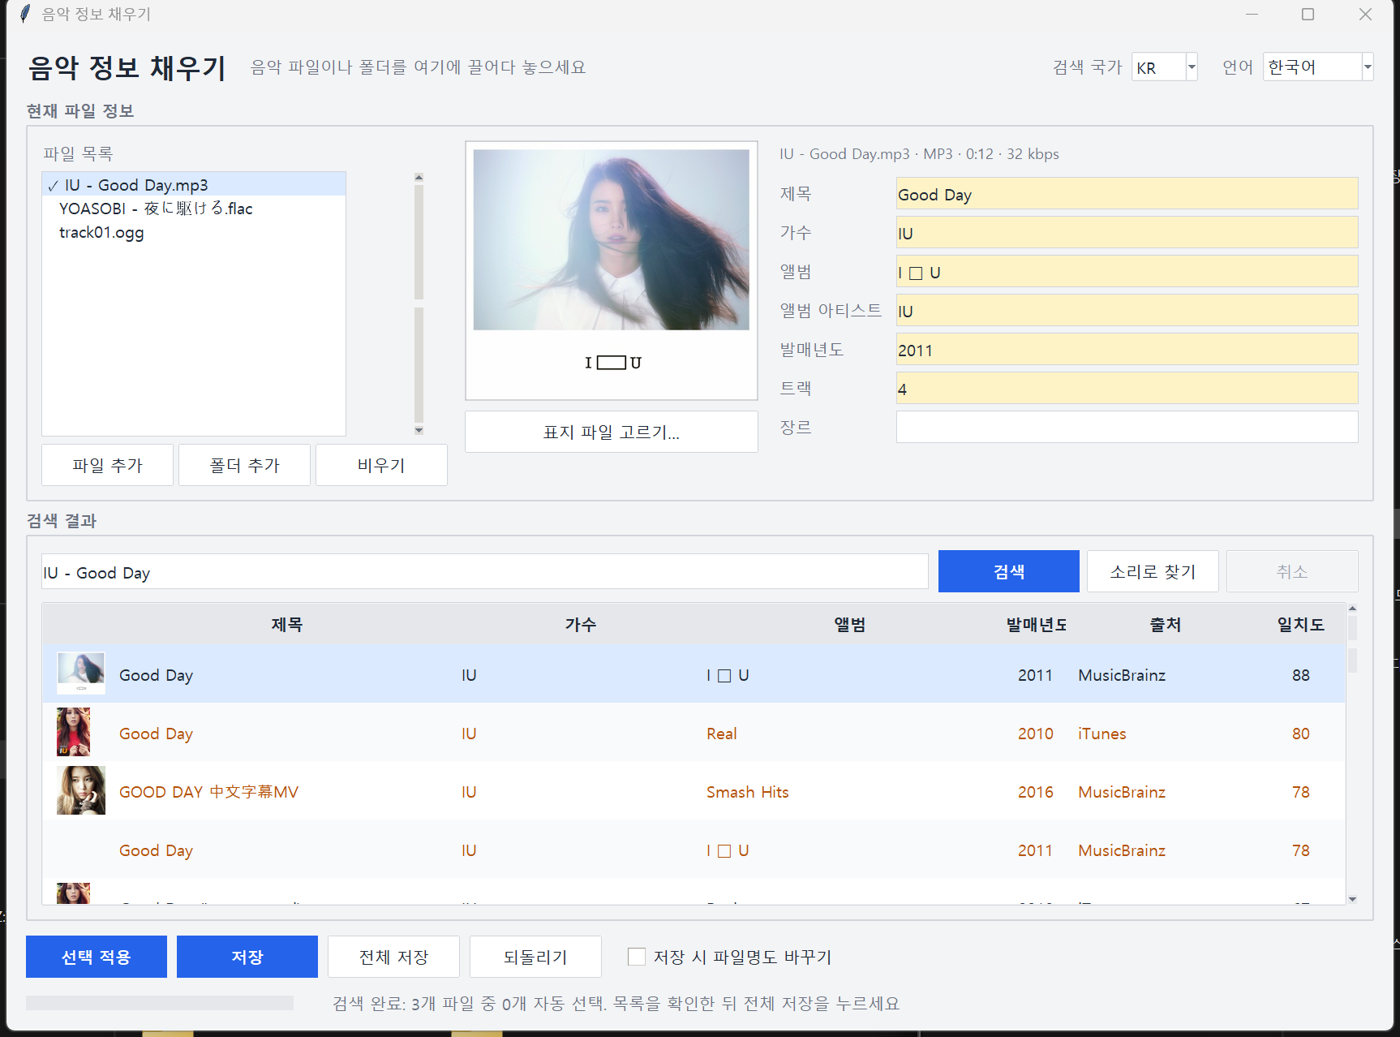
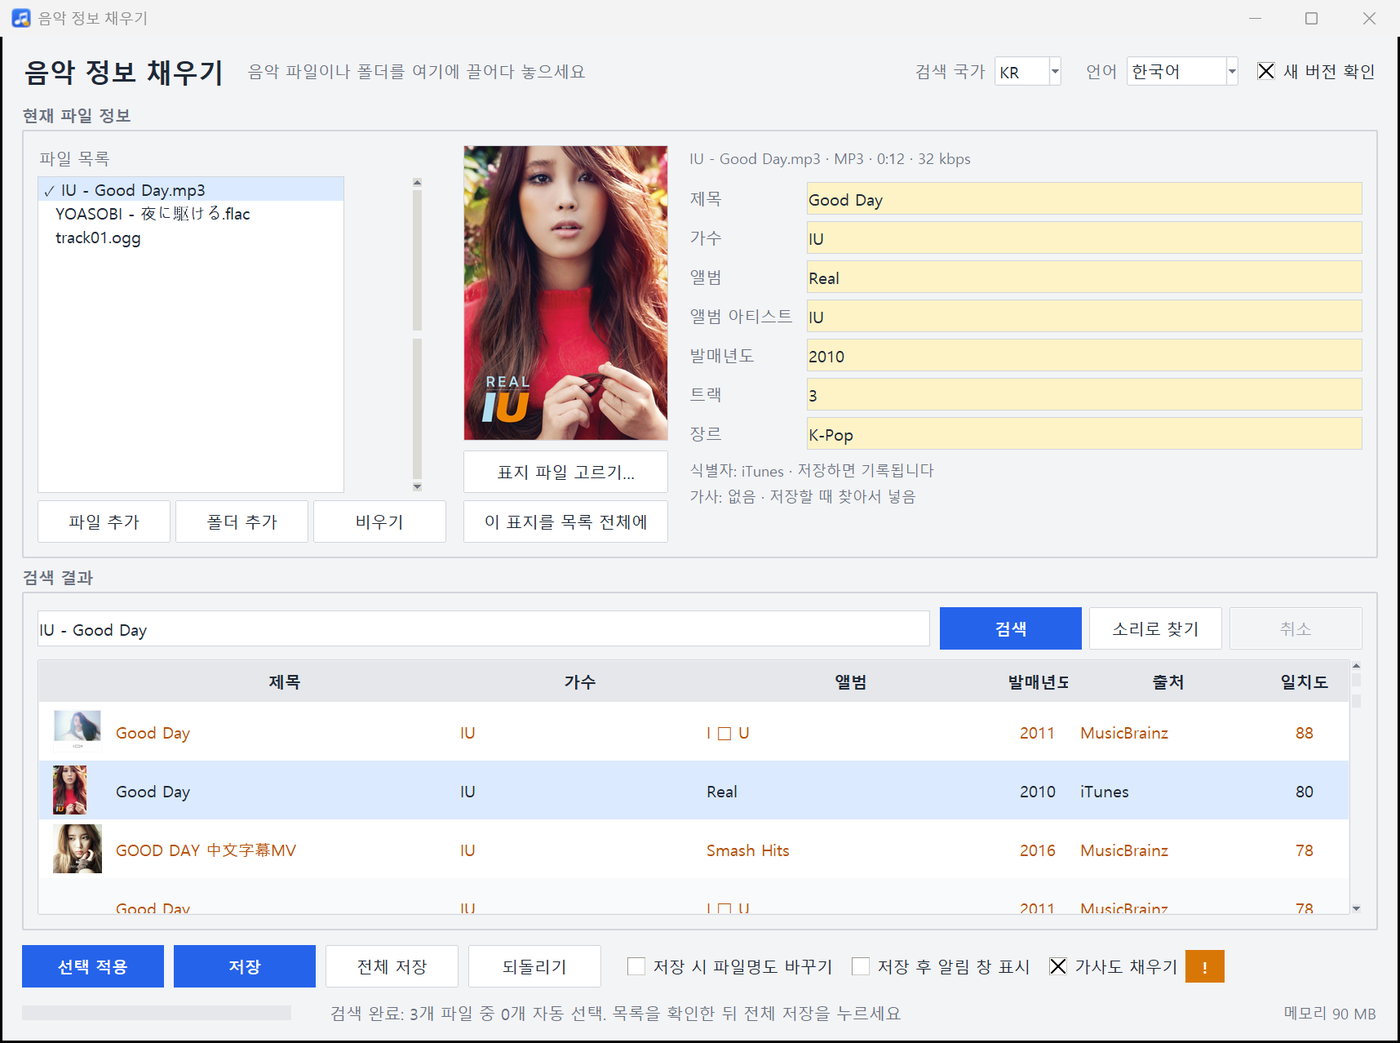
v0.2.2: 새 버전 확인 중 창을 닫아도 안전하게(작업 스레드는 Tk를 잡지 않음), 알림 문구, README 화면

diff --git a/tests/test_update_check.py b/tests/test_update_check.py
@@ -37,11 +37,11 @@ class FakeRoot:
 @pytest.fixture(autouse=True)
 def inline_threads(monkeypatch):
     class InlineThread:
-        def __init__(self, target, name=None, daemon=None):
-            self.target = target
+        def __init__(self, target, args=(), name=None, daemon=None):
+            self.target, self.args = target, args
 
         def start(self):
-            self.target()
+            self.target(*self.args)
 
     monkeypatch.setattr(uc.threading, "Thread", InlineThread)
 
@@ -180,6 +180,66 @@ def test_only_pages_of_the_tools_site_are_opened(url):
 @pytest.mark.parametrize("latest", ["", "   ", None, 3, "x" * 40])
 def test_odd_versions_show_nothing(latest):
     assert uc.interpret(dict(OK, latest=latest), "0.2.1") is None
+
+
+# ------------------------------------------------------------------ the worker thread never holds Tk
+def test_worker_thread_gets_no_tk_object_or_callback(monkeypatch):
+    """Closing the window while the request waits must not leave the worker holding the last
+    reference to the App or a Tk variable (Tcl_AsyncDelete crash in a sibling tool)."""
+    seen = {}
+
+    class Recorder:
+        def __init__(self, target, args=(), name=None, daemon=None):
+            seen.update(target=target, args=args, daemon=daemon)
+
+        def start(self):
+            seen["target"](*seen["args"])
+
+    monkeypatch.setattr(uc.threading, "Thread", Recorder)
+    root = FakeRoot()
+    results = []
+    on_result = results.append
+
+    def fetcher(slug, version):
+        return OK
+
+    uc.check_async(root, "musictag", "0.2.1", prefs_mod.Prefs(), lambda info, answered: on_result(info),
+                   fetcher=fetcher, day=DAY)
+    assert seen["target"] is uc._work and seen["target"].__closure__ is None  # a module function: holds nothing
+    assert seen["daemon"] is True
+    for arg in seen["args"]:
+        assert arg is not root and arg is not on_result
+        assert not hasattr(arg, "after") and not hasattr(arg, "tk")
+    assert [type(a) for a in seen["args"]] == [dict, type(fetcher), str, str, str]
+    assert len(results) == 1  # the Tk side still got the answer, through polling
+
+
+def test_tk_side_stops_polling_after_the_timeout(monkeypatch):
+    clock = [0.0]
+    monkeypatch.setattr(uc.time, "monotonic", lambda: clock[0])
+
+    class NeverStarts:
+        def __init__(self, target, args=(), name=None, daemon=None):
+            pass
+
+        def start(self):
+            pass  # the request never answers
+
+    monkeypatch.setattr(uc.threading, "Thread", NeverStarts)
+
+    class SteppingRoot:
+        calls = 0
+
+        def after(self, ms, fn):
+            SteppingRoot.calls += 1
+            clock[0] += ms / 1000 if ms != uc.DELAY_MS else 0
+            if SteppingRoot.calls < 1000:
+                fn()
+
+    results = []
+    uc.check_async(SteppingRoot(), "musictag", "0.2.1", prefs_mod.Prefs(), lambda *a: results.append(a),
+                   fetcher=lambda s, v: OK, day=DAY)
+    assert results == [] and SteppingRoot.calls < 1000  # gave up after TIMEOUT + POLL_GRACE
 
 
 # ------------------------------------------------------------------ settings

diff --git a/update_check.py b/update_check.py
@@ -12,6 +12,7 @@ import dataclasses
 import datetime
 import json
 import threading
+import time
 import urllib.parse
 import urllib.request
 from typing import Callable
@@ -21,6 +22,8 @@ SITE = "https://chaekgalpi.co.kr/"  # the notice only ever opens a page on this 
 TIMEOUT = 4.0
 DELAY_MS = 1500
 MAX_BYTES = 64 * 1024
+POLL_MS = 100  # the Tk thread looks for the worker's result this often
+POLL_GRACE = 6.0  # beyond the request timeout before the Tk thread stops looking
 
 
 @dataclasses.dataclass
@@ -71,25 +74,47 @@ def interpret(data: dict | None, version: str, skipped: str = "") -> UpdateInfo 
     return UpdateInfo(latest, version, url)
 
 
+def _work(box: dict, fetcher: Callable, slug: str, version: str, skipped: str) -> None:
+    """Background thread. It only fills `box`: no Tk object, no callback, nothing that
+    reaches the window. If the window is closed while the request waits, this thread must
+    not hold the last reference to anything Tk - releasing a Tk variable on a thread other
+    than Tk's kills the process ("Tcl_AsyncDelete: async handler deleted by the wrong
+    thread", reproduced in a sibling tool built the same way)."""
+    try:
+        data = fetcher(slug, version)
+        box["result"] = (interpret(data, version, skipped), data is not None)
+    except Exception:
+        box["result"] = (None, False)
+
+
 def check_async(root, slug: str, version: str, prefs, on_result: Callable[[UpdateInfo | None, bool], None], *,
                 fetcher: Callable = fetch, day: str | None = None) -> bool:
     """Schedule one check DELAY_MS after now. on_result(info, answered) runs on the Tk
     thread: `answered` is True when the server replied (the caller records the day then),
-    `info` is set only when a notice should be shown. Returns False when no check is due."""
+    `info` is set only when a notice should be shown. Returns False when no check is due.
+    The Tk thread polls for the worker's result; the worker never touches Tk."""
     if not should_check(prefs, day or today()):
         return False
     skipped = getattr(prefs, "update_check_skipped", "")
+    box: dict = {}
+    deadline = [0.0]
 
-    def work() -> None:
-        data = fetcher(slug, version)
-        info = interpret(data, version, skipped)
+    def poll() -> None:
+        if "result" in box:
+            on_result(*box.pop("result"))
+            return
+        if time.monotonic() > deadline[0]:
+            return  # the request outlived its timeout: give up quietly
         try:
-            root.after(0, lambda: on_result(info, data is not None))
-        except Exception:  # the window was closed meanwhile
+            root.after(POLL_MS, poll)
+        except Exception:  # the window is gone
             pass
 
     def start() -> None:
-        threading.Thread(target=work, name="update-check", daemon=True).start()
+        deadline[0] = time.monotonic() + TIMEOUT + POLL_GRACE
+        threading.Thread(target=_work, args=(box, fetcher, slug, version, skipped),
+                         name="update-check", daemon=True).start()
+        poll()
 
     try:
         root.after(DELAY_MS, start)

diff --git a/tests/test_update_close.py b/tests/test_update_close.py
@@ -1,0 +1,61 @@
+"""Closing the window while the update check is still waiting must not kill the process.
+
+Runs the real App in a child process three times: a fake server answer takes 3 s, the
+window closes at 2 s (the request started at 1.5 s), and the child stays alive until the
+worker thread has finished and let go of its references. No real request, no settings
+written."""
+from __future__ import annotations
+
+import os
+import subprocess
+import sys
+import textwrap
+
+import pytest
+
+ROOT = os.path.dirname(os.path.dirname(os.path.abspath(__file__)))
+
+CHILD = textwrap.dedent(r"""
+    import os, sys, threading, time, gc
+    sys.path.insert(0, {root!r}); os.chdir({root!r})
+    import i18n; i18n.init("en"); i18n.set_lang("en", persist=False)
+    import prefs as prefs_mod
+    prefs_mod.save = lambda *a, **k: None
+    prefs_mod.load = lambda: prefs_mod.Prefs()
+    import net
+    net.online = lambda *a, **k: True
+    import update_check
+    orig = update_check.check_async
+
+    def slow(slug, version):
+        time.sleep(3.0)
+        return {{"latest": "9.9.9", "updateAvailable": True, "url": "https://chaekgalpi.co.kr/tools/musictag"}}
+
+    update_check.check_async = lambda *a, **k: orig(*a, fetcher=slow, **k)
+    import gui
+    real_init = gui.App.__init__
+
+    def init(self, *a, **k):
+        real_init(self, *a, **k)
+        self.root.after(2000, self._on_close)
+
+    gui.App.__init__ = init
+    gui.launch()
+    for t in threading.enumerate():
+        if t.name == "update-check":
+            t.join(10)
+    gc.collect()
+    time.sleep(0.5)
+    print("SURVIVED", flush=True)
+""")
+
+
+@pytest.mark.parametrize("attempt", [1, 2, 3])
+def test_closing_during_the_check_does_not_crash(attempt):
+    pytest.importorskip("tkinter")
+    proc = subprocess.run([sys.executable, "-c", CHILD.format(root=ROOT)], capture_output=True, text=True,
+                          encoding="utf-8", errors="replace", timeout=60, cwd=ROOT,
+                          env=dict(os.environ, PYTHONIOENCODING="utf-8"))
+    assert proc.returncode == 0, proc.stderr[-800:]
+    assert "SURVIVED" in proc.stdout
+    assert "Tcl_AsyncDelete" not in proc.stderr

diff --git a/net.py b/net.py
@@ -16,7 +16,7 @@ from urllib.parse import urlsplit
 import requests
 
 APP_NAME = "music-tag-filler"
-APP_VERSION = "0.2.1"  # sent in the User-Agent; MusicBrainz asks for the real version — bump with each release
+APP_VERSION = "0.2.2"  # sent in the User-Agent; MusicBrainz asks for the real version — bump with each release
 APP_URL = "https://github.com/microhan1/music-tag-filler"
 USER_AGENT = f"{APP_NAME}/{APP_VERSION} ( {APP_URL} )"
 

diff --git a/docs/LESSONS.md b/docs/LESSONS.md
@@ -118,6 +118,12 @@
 - 해결: 알림을 띄우기 전에 경계 위치를 기억했다가 배치가 끝난 뒤(after_idle) 되돌림. 처음엔 기본값과 비교해 큰 쪽으로 되돌려 위 칸이 너무 커졌음 → 기억한 값을 그대로 되돌리고, 배치 전처럼 비정상적으로 작을 때만 기본값
 - 재발 방지: 화면 시험에서 알림 전후 경계 위치를 비교(636 → 636). 규칙: **창에 줄을 나중에 더하는 기능은 기존 칸이 어떻게 줄어드는지 캡처로 확인한다**
 
+### A21. 새 버전 확인 중 창을 닫으면 프로세스가 죽을 수 있는 구조 (2026-10-14, v0.2.1에서 고침)
+- 증상: 같은 구조로 만든 짝 도구(scan-pdf-split)에서, 응답을 기다리는 1.5~5.5초 사이에 창을 닫으면 `Tcl_AsyncDelete: async handler deleted by the wrong thread`로 종료됨(메인 통합 프로젝트 세션이 알려 옴). 이 앱에서는 실제 실행 흐름으로 7번 시험해 재현되지 않았음
+- 원인: 작업 스레드가 `root.after(0, lambda: on_result(...))`를 부르려고 root와 App의 메서드를 붙잡고 있음. 창이 닫힌 뒤 그 스레드에서 마지막 참조가 풀리면 Tk 변수가 Tk 스레드가 아닌 곳에서 정리됨. 언제 정리되는지(참조 계수인지 순환 수집인지, 어느 스레드인지)에 따라 갈리므로 재현되지 않았다고 안전한 것이 아님
+- 해결: 작업 스레드는 모듈 함수 `_work(box, fetcher, slug, version, skipped)`로 결과를 dict에 담기만 하고, Tk 스레드가 `root.after(100, poll)`로 가져가 on_result를 부름. 시간 제한(4초+6초)이 지나면 폴링을 그만둠. 알림 문구도 "새 버전이 나왔습니다: {latest} (현재 {current})"로 바꿈(버전 뒤 조사가 어색)
+- 재발 방지: `test_worker_thread_gets_no_tk_object_or_callback`(스레드 함수가 아무것도 붙잡지 않고, 인자에 root·콜백이 없음 — 고치기 전 코드에서 실패), `test_tk_side_stops_polling_after_the_timeout`, `tests/test_update_close.py`(요청 중 창 닫기를 별도 프로세스로 3번, 모두 살아남아야 함). 규칙: **작업 스레드에는 Tk 객체도, Tk 객체를 붙잡은 콜백도 넘기지 않는다. 결과는 Tk 스레드가 가져간다**
+
 ## B. 실제 데이터에서 알게 된 것
 
 - B1. 실제 J-POP 553곡(mp3 529·flac 24)으로 시험해야 A1·A2가 드러났다. 합성 음원 테스트만으로는 보이지 않음 (`57d8ba0`)
